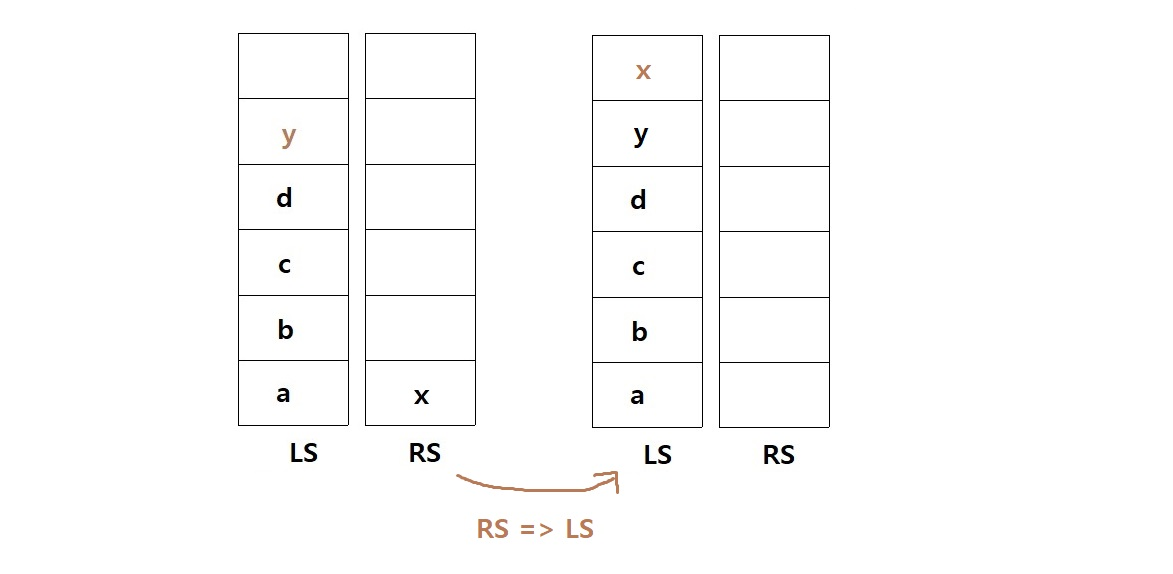
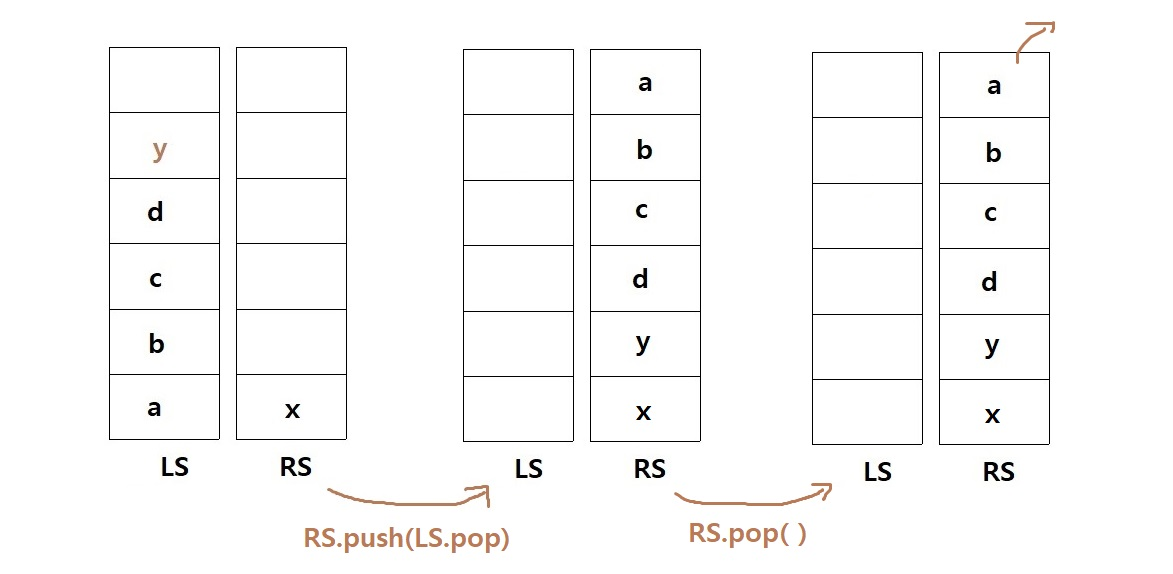
commit

diff --git a/recoding/keyLogger_re.java b/recoding/keyLogger_re.java
@@ -1,0 +1,46 @@
+package recoding;
+
+import java.io.*;
+import java.util.Stack;
+
+public class keyLogger_re {
+    public static void main(String[] args) throws IOException {
+        BufferedReader br = new BufferedReader(new InputStreamReader(System.in));
+        BufferedWriter bw = new BufferedWriter(new OutputStreamWriter(System.out));
+
+        int T = Integer.parseInt(br.readLine()); // TestCase
+
+        for(int i = 1; i <= T; i++){
+            Stack<Character> LS = new Stack<>();
+            Stack<Character> RS = new Stack<>();
+
+            String pw = br.readLine();
+
+            for(char ch : pw.toCharArray()){
+                switch (ch){
+                    case '<':
+                        if(!LS.isEmpty()) RS.push(LS.pop());
+                        break;
+                    case  '>':
+                        if(!RS.isEmpty()) LS.push(RS.pop());
+                        break;
+                    case  '-':
+                        if(!LS.isEmpty()) LS.pop();
+                        break;
+                    default:
+                        LS.push(ch);
+                }
+            }
+            while(!LS.isEmpty()) RS.push(LS.pop());
+            StringBuilder sb = new StringBuilder();
+            while(!RS.isEmpty()) sb.append(RS.pop());
+
+            bw.write(sb.toString());
+            bw.write("\n");
+        }
+
+        br.close();
+        bw.flush();
+        bw.close();
+    }
+}
